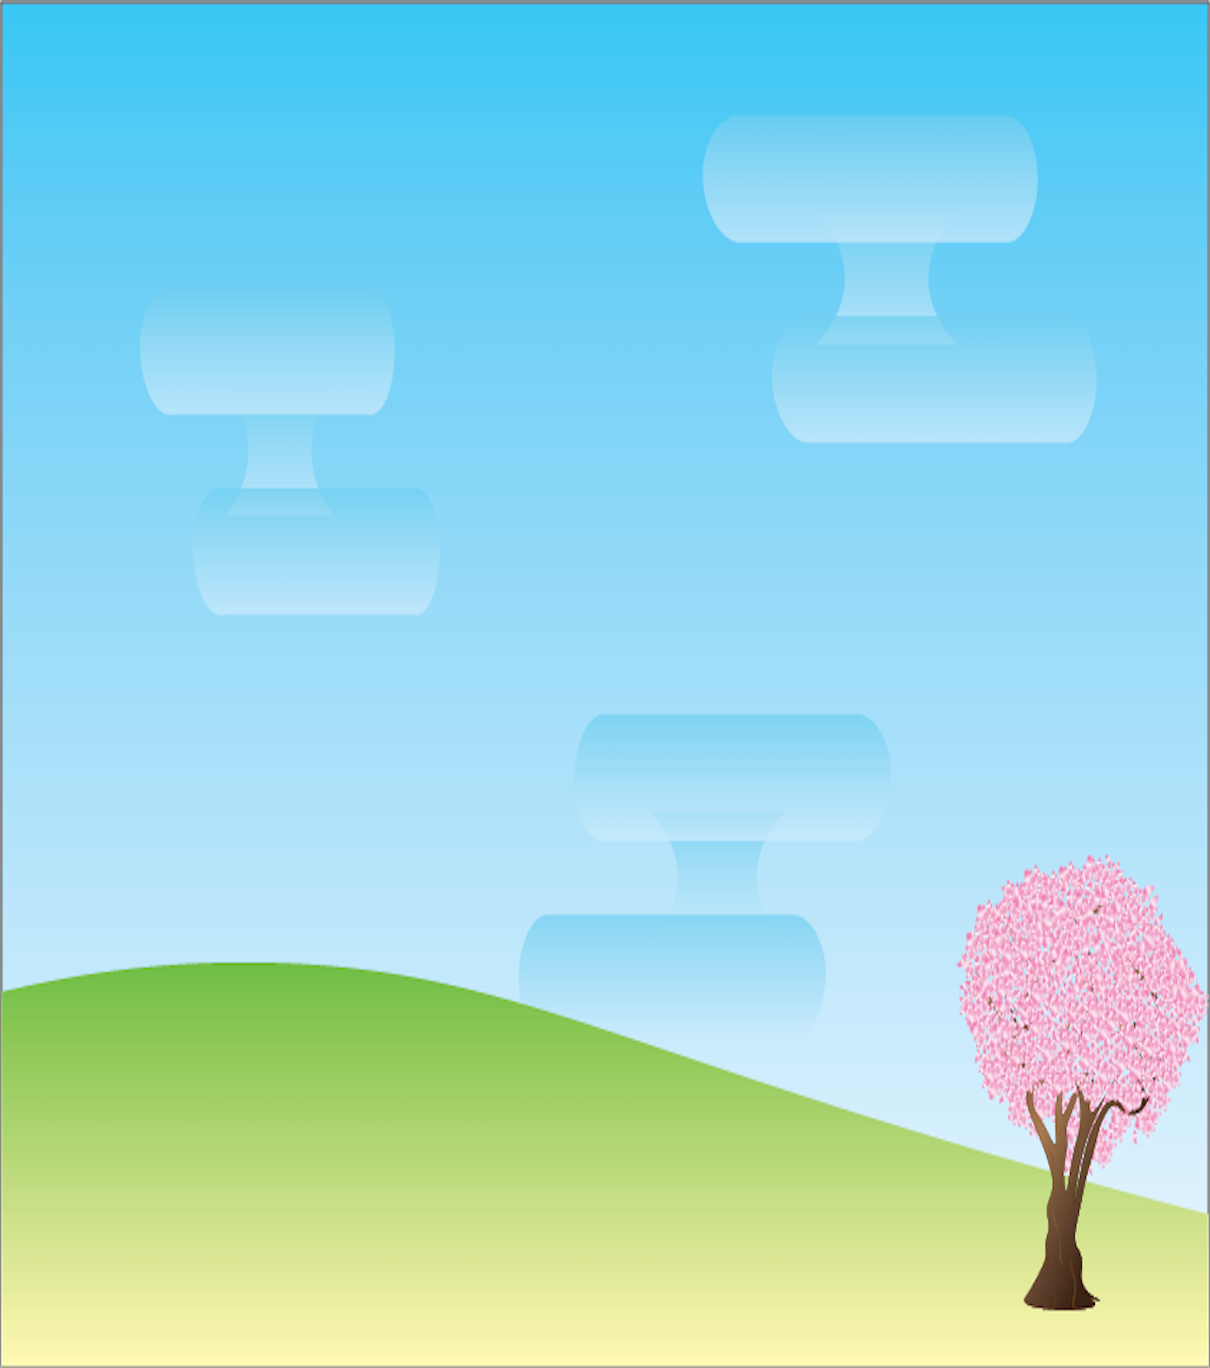
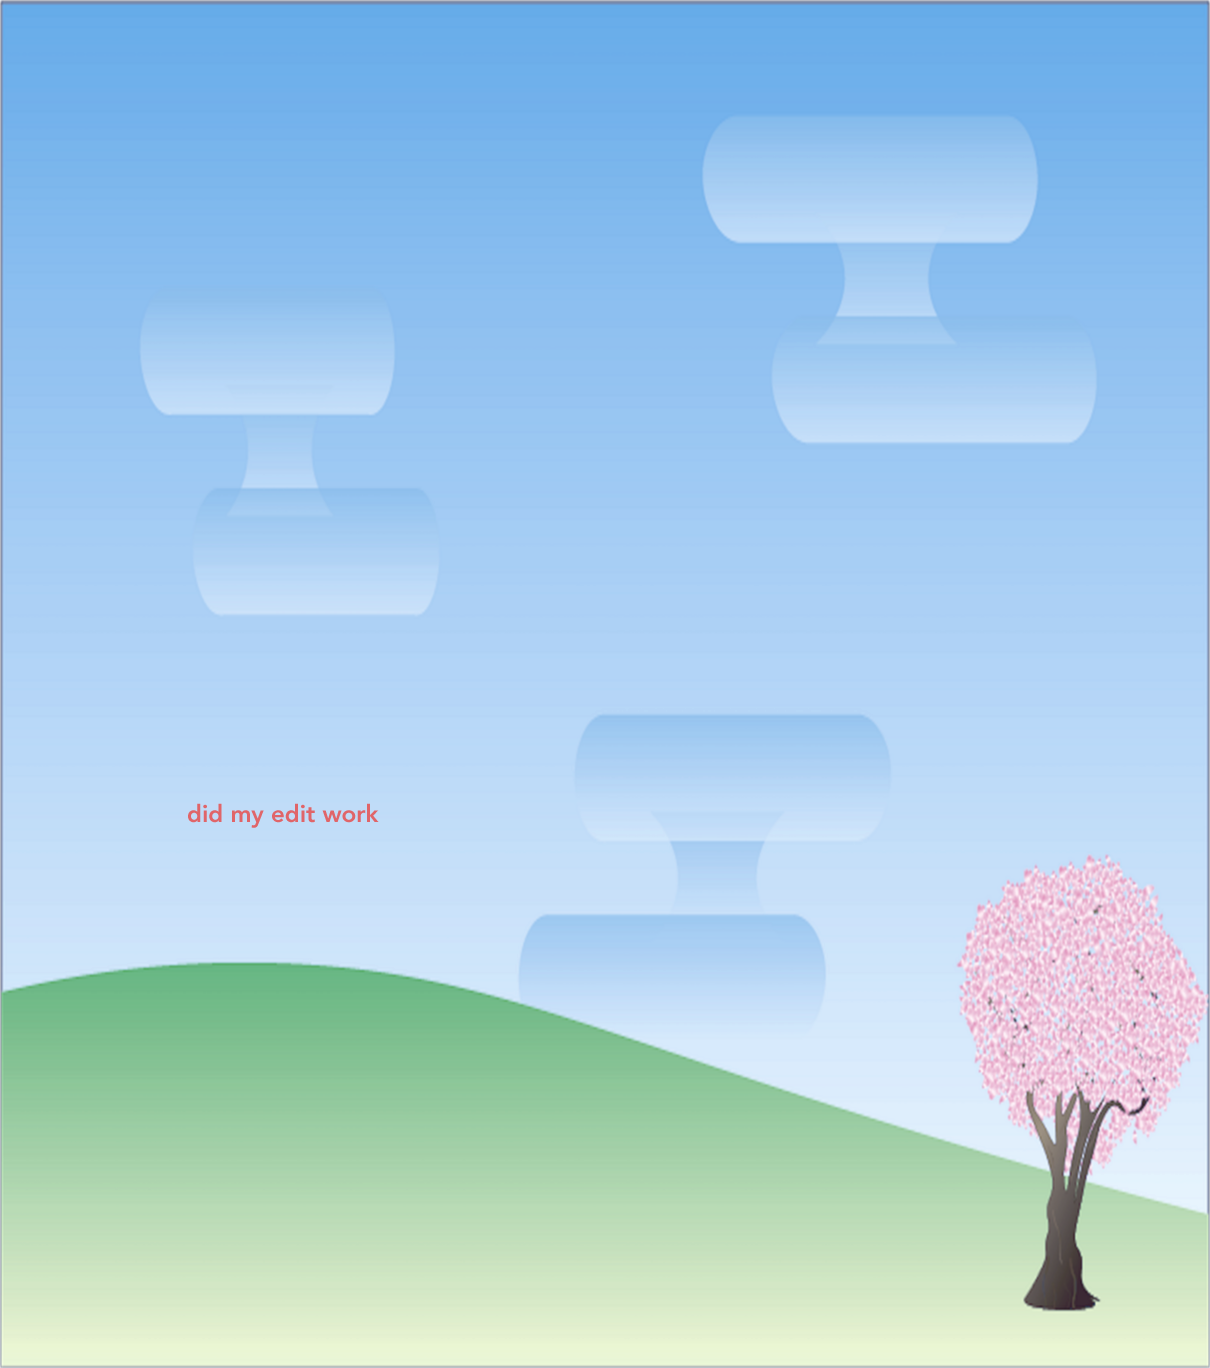
Sprint 2: CSS and Level 9/10 Hitboxes

diff --git a/finalPhaserGame/group33game/js/main.js b/finalPhaserGame/group33game/js/main.js
@@ -8,7 +8,7 @@ var game = new Phaser.Game(1200, 1320, Phaser.AUTO);
 var player;
 //var platform; //group for platformable objects (bridges, clouds, background)
 //var touchPlatform; //group for objects that have collission with objects (player)
-var currentLevel = 5;
+var currentLevel = 1;
 var arena;
 var endArrow;
 var waterfallPlatform;
@@ -29,6 +29,7 @@ var testTimer = 0;
 var jumpNoise;
 var deathFallNoise;
 var freezeSound;
+var chimneyNoise;
 var thawSound;
 
 ///CLOUD FUNCTIONS
@@ -93,8 +94,8 @@ MainMenu.prototype = {
 		// preload assets
 
 		//title screen assets
-		game.load.image('titleImage', 'assets/img/TitleBackground.png');
-		game.load.image('titleName', 'assets/img/Title.png');
+		game.load.image('titleImage', 'assets/img/TitleBackgroundEdit.png');
+		game.load.image('titleName', 'assets/img/TitleEdit.png');
 		game.load.image('Petal3', 'assets/img/Petal3.png');
 		game.load.image('Petal2', 'assets/img/Petal2.png');
 		game.load.image('Blossom', 'assets/img/Petal1.png');
@@ -131,7 +132,8 @@ MainMenu.prototype = {
 		game.load.image('houseFinal', 'assets/img/houseFinal.png');
 		game.load.image('doormat', 'assets/img/doormat.png');
 		game.load.physics('stageHitboxWide', 'js/json/stageWide1200.json', null);
-		game.load.physics('ruinsHitbox', 'js/json/level9Hitbox.json', null);
+		game.load.physics('ruinsHitbox', 'js/json/level9Hitbox2.json', null);
+		game.load.physics('finalHitbox', 'js/json/level10Hitbox.json', null);
 		game.load.atlas('poolSwitch', 'assets/img/switchPool.png', 'js/json/switchPool.json');
 		game.load.physics('housePhysics', 'js/json/houseHitbox.json', null);
 		game.load.atlas('characterSpritesheet', 'assets/img/characterSpritesheet.png', 'js/json/characterSprite.json');
@@ -141,6 +143,7 @@ MainMenu.prototype = {
 		game.load.audio('deathFall', ['assets/audio/pitFall.wav']);
 		game.load.audio('freezeSound', ['assets/audio/freezeSound.wav']);
 		game.load.audio('thawSound', ['assets/audio/thawSound.wav']);
+		game.load.audio('chimneyNoise', ['assets/audio/chimneyNoise.wav']);
 		game.load.audio('windNoise', ['assets/audio/windNoise.mp3']);
 	},
 	create: function() {
@@ -219,9 +222,9 @@ Cutscene.prototype = {
 	create: function(){
 		console.log('Cutscene: create');
 
-		windNoise = new Phaser.Sound(game, 'windNoise', 0.1, true);
+		/*windNoise = new Phaser.Sound(game, 'windNoise', 0.1, true);
 		windNoise.volume = 0.1;
-		windNoise.play();
+		windNoise.play();*/
 
 		cutsceneTime = 0;
 		CutsceneText = game.add.text(game.width/2, (game.height/2)-200, 
@@ -229,7 +232,24 @@ Cutscene.prototype = {
 			{fontSize: '50px', fill: '#000' });
 		CutsceneText.anchor.set(0.5);
 		CutsceneText.align = 'center';
-		game.stage.backgroundColor = "#FACADE";
+
+		//set background colors
+		if(this.level == 1 || this.level == 2){
+			game.stage.backgroundColor = "#fff9c2";
+		}else if(this.level == 3 || this.level == 4){
+			game.stage.backgroundColor = "#fde7b1";
+
+		}else if(this.level == 5 || this.level == 6){
+			game.stage.backgroundColor = "#ffd5b3";
+
+		}else if(this.level == 7|| this.level == 8){
+			game.stage.backgroundColor = "#ffb69e";
+
+		}else if(this.level == 9 || this.level == 10){
+			game.stage.backgroundColor = "#ffa791";
+		}
+
+		//game.stage.backgroundColor = "#FACADE";
 		//take cutscene text
 		if(this.level == 1){
 			CutsceneText.text = BufferText1;
@@ -264,11 +284,15 @@ Cutscene.prototype = {
 			CutsceneText.text +
 			'Press Space to Continue';
 		}
-		if(game.input.keyboard.isDown(Phaser.Keyboard.SPACEBAR) && (cutsceneTime > cutsceneLength)){ 
+		if(game.input.keyboard.isDown(Phaser.Keyboard.SPACEBAR) && (cutsceneTime > cutsceneLength) && this.cache.isSoundDecoded('windNoise')){ 
 		//space bar is pressed and cutscene time is enough
 			cutsceneTime = 0;
 			if(this.level <= 10){ //if the game is in a standard level #
 				game.state.start('Play', true, false, this.level); //move to Play if spacebar is pressed
+				//wait for mp3 to decode
+				/*if(this.cache.isSoundDecoded('windNoise')){
+					game.state.start('Play', true, false, this.level); //move to Play if spacebar is pressed
+				}*/
 			}else{
 				currentLevel = 1;
 				windNoise.destroy();
@@ -295,6 +319,14 @@ Play.prototype = {
 		//obsts.debug = true;
 		game.physics.startSystem(Phaser.Physics.P2JS);
 
+		//play bg noise
+		if(this.level == 1){
+			windNoise = new Phaser.Sound(game, 'windNoise', 0.1, true);
+			windNoise.volume = 0.1;
+			windNoise.play();
+		}
+		
+
 		//put in blue background
 		game.physics.p2.setImpactEvents(true);
 		game.stage.backgroundColor = "#da9986";
@@ -315,6 +347,8 @@ Play.prototype = {
 		freezeSound.volume = 0.5;
 		thawSound = game.add.audio('thawSound');
 		thawSound.volume = 0.5;
+		chimneyNoise = game.add.audio('chimneyNoise');
+		chimneyNoise.volume = 0.5;
 
 		//set up collision groups
 		var platform = game.physics.p2.createCollisionGroup();
@@ -657,7 +691,7 @@ Play.prototype = {
 			highY = 1200;
 			platformSpeed = 50;
 
-			cloudH = game.add.sprite(500, 160, 'Cloud');
+			cloudH = game.add.sprite(500, 120, 'Cloud');
 			cloudH.enableBody = true;
 			game.physics.p2.enable(cloudH);
 			cloudH.physicsBodyType = Phaser.Physics.P2JS;
@@ -812,10 +846,27 @@ Play.prototype = {
 			playerStartY = playerStartY + 250;
 			arrowStartY = arrowStartY + 250;
 		}else if(this.level == 10){
-			cloud1Exist = false;
+			cloud1Exist = true;
 			cloud2Exist = false;
 			cloudHExist = false;
-			arrowStartY = arrowStartY + 20;
+			arrowStartY = arrowStartY + 70;
+
+			//create cloud platform 1
+			cloud1Start = 540;
+			cloud1Range = 65;
+			cloud1Speed = 60;
+
+			cloud1 = game.add.sprite(760, cloud1Start, 'Cloud');
+			cloud1.enableBody = true;
+			game.physics.p2.enable(cloud1);
+			cloud1.physicsBodyType = Phaser.Physics.P2JS;
+			cloud1.body.clearShapes();
+			cloud1.body.setRectangle(140, 40);
+			cloud1.anchor.set(0.5);
+			cloud1.body.setCollisionGroup(platform);
+			cloud1.body.collides([touchPlatform]);
+			cloud1.body.kinematic = true;
+
 		}
 
 		
@@ -952,6 +1003,10 @@ Play.prototype = {
 		//end level if player runs into arrow
 		endArrow.body.collides([touchPlatform]/*, toNextLevel, this*/);
 		endArrow.body.onBeginContact.add(toNextLevel, this);
+
+		var arrowBounce = game.add.tween(endArrow);
+		arrowBounce.to({y: game.world.height-endArrow.height}, 2000, Phaser.Easing.Bounce.In, true);
+		arrowBounce.start();
 		
 
 		//endArrow.body.onBeginContact.add(toNextlevel, this);
@@ -1037,6 +1092,7 @@ Play.prototype = {
 		if(this.cursors.up.isDown){
 			if(jumpOnce == true){
 				player.body.velocity.y = -320; //jump
+				player.animations.play('jumping');
 				//player.animations.play('jumping');
 				jumpNoise.play(); //play jump sound
 			}
@@ -1071,7 +1127,7 @@ Play.prototype = {
 
 		//animation control
 		if(this.cursors.up.isPressed){ //upward movement
-			player.animations.play('jumping');
+			//player.animations.play('jumping');
 			/*if(jumpAnimOnce == 0){
 				player.animations.play('jumping');
 			}
@@ -1115,6 +1171,7 @@ Play.prototype = {
 			//if(downPress == false){
 				player.body.velocity.y = -250;
 				player.body.x = 570;
+				chimneyNoise.play(); //play jump sound
 				player.body.y = 150;
 				//downPress = true;
 			//}

diff --git a/finalPhaserGame/group33game/index.html b/finalPhaserGame/group33game/index.html
@@ -2,7 +2,7 @@
 <html lang="en"> 
 <head> 
 	<meta charset="UTF-8" />
-	<title>[Your Game Title Here]</title>
+	<title>MEMORY PETALS</title>
 	<script type="text/javascript" src="../framework/phaser.min.js"></script>
 	<script type="text/javascript" src="js/main.js"></script>
 	<script type="text/javascript" src="js/prefabs/Title.js"></script>
@@ -13,6 +13,7 @@
 	<link rel="stylesheet" type="text/css" href="css/styles.css">
 </head>
 <body>
+	<h1>MEMORY PETALS</h1>
 	<!-- We don't need anything in the <body> -->
 	<!-- Phaser will make the <canvas> element for us 👍 -->
 </body>

diff --git a/finalPhaserGame/group33game/js/prefabs/Arena.js b/finalPhaserGame/group33game/js/prefabs/Arena.js
@@ -18,7 +18,11 @@ function Arena(game, xPass, yPass, key, level/*, frame*/){
 		this.body.loadPolygon('stageHitboxWide', 'garden');
 	}else if(level == 9){
 		this.body.loadPolygon('ruinsHitbox', 'garden');
-		this.body.loadPolygon('ruinsHitbox', 'testRuins');
+		this.body.loadPolygon('ruinsHitbox', 'ruinsHitbox');
+	}else if(level == 10){
+		this.body.loadPolygon('finalHitbox', 'stage10Ledge');
+		this.body.loadPolygon('finalHitbox', 'stage10Cliff');
+		this.body.loadPolygon('finalHitbox', 'stage10cave');
 	}
 	
 

diff --git a/finalPhaserGame/group33game/css/styles.css b/finalPhaserGame/group33game/css/styles.css
@@ -1,7 +1,16 @@
 body {
 	font-family: Helvetica;
+	font-size: 32px;
+	width: 960px;
+	margin: 0 auto;
+	background-color: #F9DBE4;
 }
 
 canvas {
-	border: 1px solid black;
+	border: 12px solid #BAB2B5;
+}
+
+h1 {
+	color: #4F4A41;
+	text-align: left;
 }
